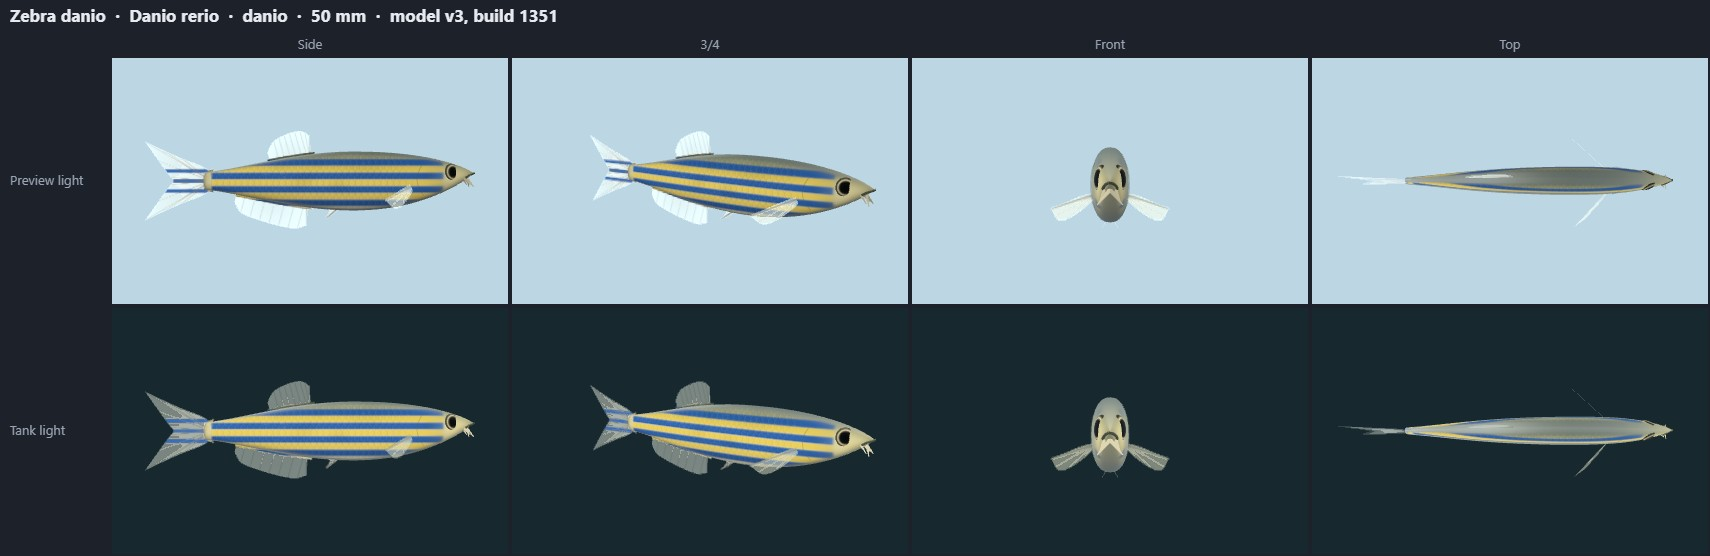
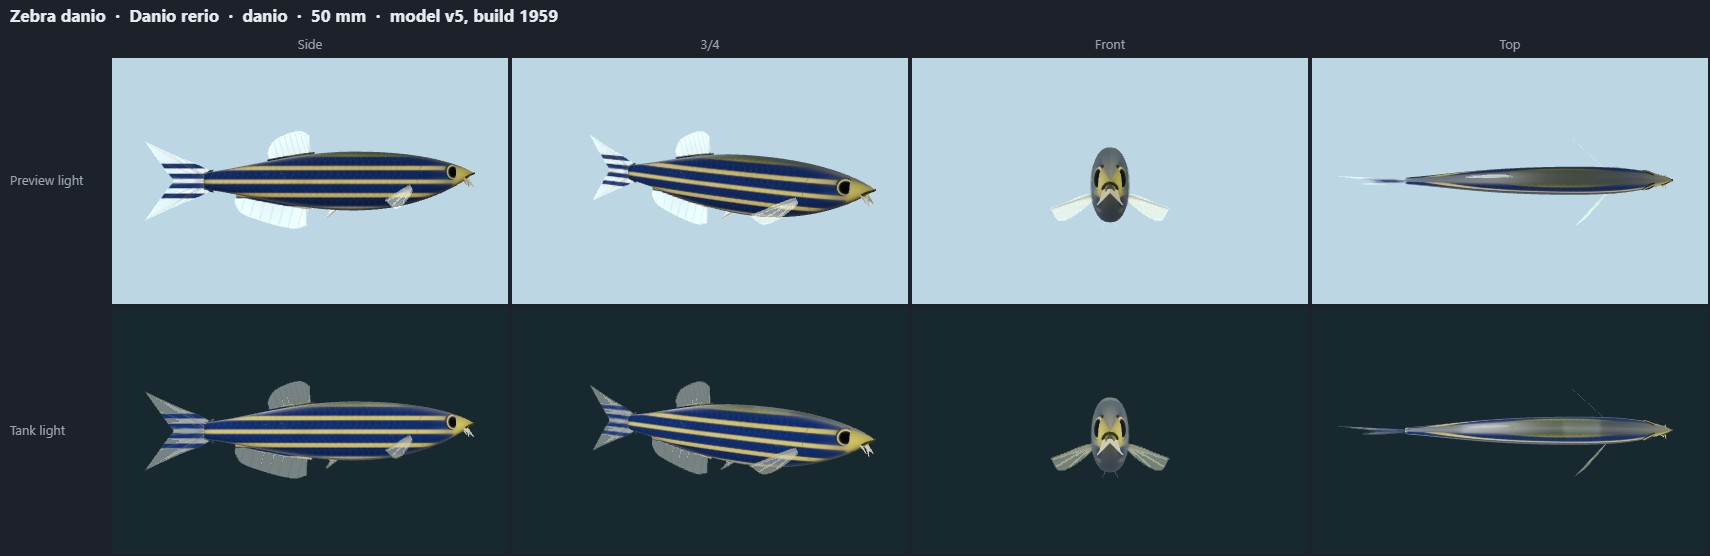
FA1: zebra danio bold blue-black stripes, silver-gold bands (R29)

diff --git a/public/model-sheets/index.html b/public/model-sheets/index.html
@@ -10,7 +10,7 @@ figure { margin: 8px 0 14px; padding: 8px; background: var(--panel); border-radi
 img { display: block; max-width: 100%; height: auto }
 </style></head><body>
 <h1>Model sheets</h1>
-<p>Pre-rendered review images of every TankLook animal model (no WebGL needed): 159 models, 108 species, written at build 1438.
+<p>Pre-rendered review images of every TankLook animal model (no WebGL needed): 161 models, 108 species, written at build 1959.
 Each sheet shows the Side, 3/4, Front, Top views; top row in the plain preview light, bottom row at true size in the default tank's LED light and water.
 Click a sheet for the full-size image (1710 × 556 px). Interactive version: <a href="../review.html">review.html</a>.</p>
 <h2>Freshwater fish</h2>
@@ -25,7 +25,7 @@ Click a sheet for the full-size image (1710 × 556 px). Interactive version: <a 
 <figure id="rummynose"><figcaption><b>Rummy-nose tetra</b> · <i>Hemigrammus rhodostomus</i> · rummynose · 50 mm · model v3 (build 434, 2026-10-15)</figcaption><a href="rummynose.jpg"><img src="rummynose.jpg" width="1710" height="556" loading="lazy" alt="Rummy-nose tetra (Hemigrammus rhodostomus), model v3: Side, 3/4, Front, Top views, preview light (top row) and tank light (bottom row)"></a></figure>
 <figure id="harlequin"><figcaption><b>Harlequin rasbora</b> · <i>Trigonostigma heteromorpha</i> · harlequin · 50 mm · model v3 (build 1351, 2026-10-27)</figcaption><a href="harlequin.jpg"><img src="harlequin.jpg" width="1710" height="556" loading="lazy" alt="Harlequin rasbora (Trigonostigma heteromorpha), model v3: Side, 3/4, Front, Top views, preview light (top row) and tank light (bottom row)"></a></figure>
 <figure id="chili"><figcaption><b>Chili rasbora</b> · <i>Boraras brigittae</i> · chili · 23 mm · model v4 (build 1351, 2026-10-27)</figcaption><a href="chili.jpg"><img src="chili.jpg" width="1710" height="556" loading="lazy" alt="Chili rasbora (Boraras brigittae), model v4: Side, 3/4, Front, Top views, preview light (top row) and tank light (bottom row)"></a></figure>
-<figure id="danio"><figcaption><b>Zebra danio</b> · <i>Danio rerio</i> · danio · 50 mm · model v3 (build 1351, 2026-10-27)</figcaption><a href="danio.jpg"><img src="danio.jpg" width="1710" height="556" loading="lazy" alt="Zebra danio (Danio rerio), model v3: Side, 3/4, Front, Top views, preview light (top row) and tank light (bottom row)"></a></figure>
+<figure id="danio"><figcaption><b>Zebra danio</b> · <i>Danio rerio</i> · danio · 50 mm · model v5 (build 1959, 2026-11-13)</figcaption><a href="danio.jpg"><img src="danio.jpg" width="1710" height="556" loading="lazy" alt="Zebra danio (Danio rerio), model v5: Side, 3/4, Front, Top views, preview light (top row) and tank light (bottom row)"></a></figure>
 <figure id="whitecloud"><figcaption><b>White cloud mountain minnow</b> · <i>Tanichthys albonubes</i> · whitecloud · 40 mm · model v2 (build 1351, 2026-10-27)</figcaption><a href="whitecloud.jpg"><img src="whitecloud.jpg" width="1710" height="556" loading="lazy" alt="White cloud mountain minnow (Tanichthys albonubes), model v2: Side, 3/4, Front, Top views, preview light (top row) and tank light (bottom row)"></a></figure>
 <figure id="cpd"><figcaption><b>Celestial pearl danio ♂</b> · <i>Danio margaritatus</i> · cpd · 25 mm · model v4 (build 1351, 2026-10-27)</figcaption><a href="cpd.jpg"><img src="cpd.jpg" width="1710" height="556" loading="lazy" alt="Celestial pearl danio ♂ (Danio margaritatus), model v4: Side, 3/4, Front, Top views, preview light (top row) and tank light (bottom row)"></a></figure>
 <figure id="cpd-f"><figcaption><b>Celestial pearl danio ♀</b> · <i>Danio margaritatus</i> · cpd~f · 25 mm · model v4 (build 1351, 2026-10-27)</figcaption><a href="cpd-f.jpg"><img src="cpd-f.jpg" width="1710" height="556" loading="lazy" alt="Celestial pearl danio ♀ (Danio margaritatus), model v4: Side, 3/4, Front, Top views, preview light (top row) and tank light (bottom row)"></a></figure>
@@ -153,6 +153,8 @@ Click a sheet for the full-size image (1710 × 556 px). Interactive version: <a 
 <figure id="indianstick"><figcaption><b>Indian stick insect</b> · <i>Carausius morosus</i> · indianstick · 80 mm · model v3 (build 1438, 2026-10-28)</figcaption><a href="indianstick.jpg"><img src="indianstick.jpg" width="1710" height="556" loading="lazy" alt="Indian stick insect (Carausius morosus), model v3: Side, 3/4, Front, Top views, preview light (top row) and tank light (bottom row)"></a></figure>
 <figure id="purplepincher"><figcaption><b>Purple pincher hermit crab</b> · <i>Coenobita clypeatus</i> · purplepincher · 75 mm · model v1 (build 1416, 2026-10-28)</figcaption><a href="purplepincher.jpg"><img src="purplepincher.jpg" width="1710" height="556" loading="lazy" alt="Purple pincher hermit crab (Coenobita clypeatus), model v1: Side, 3/4, Front, Top views, preview light (top row) and tank light (bottom row)"></a></figure>
 <h2>Tech gear</h2>
+<figure id="gear-hob-xs"><figcaption><b>HOB filter (nano) · 40 gph</b> · <i>tech gear</i> · gear-hob-xs · 1 mm · model v0 (build 0, unrecorded)</figcaption><a href="gear-hob-xs.jpg"><img src="gear-hob-xs.jpg" width="1710" height="556" loading="lazy" alt="HOB filter (nano) · 40 gph (tech gear), model v0: Side, 3/4, Front, Top views, preview light (top row) and tank light (bottom row)"></a></figure>
+<figure id="gear-internal-xs"><figcaption><b>Internal filter (nano) · 25 gph</b> · <i>tech gear</i> · gear-internal-xs · 1 mm · model v0 (build 0, unrecorded)</figcaption><a href="gear-internal-xs.jpg"><img src="gear-internal-xs.jpg" width="1710" height="556" loading="lazy" alt="Internal filter (nano) · 25 gph (tech gear), model v0: Side, 3/4, Front, Top views, preview light (top row) and tank light (bottom row)"></a></figure>
 <figure id="gear-sponge-s"><figcaption><b>Sponge filter (small) · 40 gph</b> · <i>tech gear</i> · gear-sponge-s · 1 mm · model v1 (build 793, 2026-10-19)</figcaption><a href="gear-sponge-s.jpg"><img src="gear-sponge-s.jpg" width="1710" height="556" loading="lazy" alt="Sponge filter (small) · 40 gph (tech gear), model v1: Side, 3/4, Front, Top views, preview light (top row) and tank light (bottom row)"></a></figure>
 <figure id="gear-internal-s"><figcaption><b>Internal filter (small) · 80 gph</b> · <i>tech gear</i> · gear-internal-s · 1 mm · model v1 (build 793, 2026-10-19)</figcaption><a href="gear-internal-s.jpg"><img src="gear-internal-s.jpg" width="1710" height="556" loading="lazy" alt="Internal filter (small) · 80 gph (tech gear), model v1: Side, 3/4, Front, Top views, preview light (top row) and tank light (bottom row)"></a></figure>
 <figure id="gear-hob-s"><figcaption><b>HOB filter (small) · 100 gph</b> · <i>tech gear</i> · gear-hob-s · 1 mm · model v1 (build 793, 2026-10-19)</figcaption><a href="gear-hob-s.jpg"><img src="gear-hob-s.jpg" width="1710" height="556" loading="lazy" alt="HOB filter (small) · 100 gph (tech gear), model v1: Side, 3/4, Front, Top views, preview light (top row) and tank light (bottom row)"></a></figure>

diff --git a/src/art/fishgen.ts b/src/art/fishgen.ts
@@ -537,11 +537,11 @@ export const PLANS: Record<string, Plan> = {
     dorsal: { at: 0.53, len: 0.06, h: 0.08, rake: 0.3, lead: 0.6, tip: 'point', trail: 0.045, drop: 0.2 }, anal: { at: 0.45, len: 0.1, h: 0.055, rake: 0.05, lead: 0.85, tip: 'point', trail: 0.03, drop: 0.35 }, pelvic: { u: 0.56, len: 0.05 },
     marks: [{ k: 'band', u0: 0.22, u1: 0.85, v0: -0.012, v1: 0.012, c: '#2a1a18', a: 0.7, f: 0.01 }, { k: 'blob', u: 0.24, v: 0, ru: 0.03, rv: 0.025, c: '#1a1212', a: 0.8 }],
     eye: { r: 0.03, iris: ['#d07050', '#4a1a12'] } },
-  danio: { shimmer: 0.5, shimmerRgb: '255,235,170', gillLine: 0.25, finFade: 0.3, gape: 0.032, gapeDrop: 0.012, barbels: 0.018, thick: 0.5, depth: 0.19, pedU: 0.18, ped: 0.032, peak: 0.55, snout: 0.4, mouth: -0.025, shade: ['#6e7462', '#cdc6a2', '#ece6cc'], tail: { type: 'fork', h: 0.12, a: 0.7 }, fin: N,
+  danio: { shimmer: 0.5, shimmerRgb: '255,235,170', gillLine: 0.25, finFade: 0.3, gape: 0.032, gapeDrop: 0.012, barbels: 0.018, thick: 0.5, depth: 0.19, pedU: 0.18, ped: 0.032, peak: 0.55, snout: 0.4, mouth: -0.025, shade: ['#5a5e3c', '#c2b57c', '#e4dfc4'], tail: { type: 'fork', h: 0.12, a: 0.7 }, fin: N,
     dorsal: { at: 0.5, len: 0.11, h: 0.07, rake: 0.3, lead: 0.7, drop: 0.5, trail: 0.02 }, anal: { at: 0.49, len: 0.2, h: 0.065, rake: 0.2, lead: 0.75, drop: 0.45, trail: 0.02 }, pelvic: { u: 0.58, len: 0.05 },
-    marks: [...[-0.035, 0.005, 0.045].map(v => ({ k: 'band' as const, u0: 0.2, u1: 0.9, v0: v - 0.011, v1: v + 0.011, c: '#e2c466', a: 0.55, f: 0.008 })), // gold between the stripes
-      ...[-0.055, -0.015, 0.025, 0.065].map(v => ({ k: 'band' as const, u0: 0.2, u1: 0.9, v0: v - 0.012, v1: v + 0.012, c: '#2b4f8c', a: 0.9, f: 0.008 }))],
-    finMarks: [-0.03, 0, 0.03].map(v => ({ k: 'band' as const, u0: 0.0, u1: 0.25, v0: v - 0.007, v1: v + 0.007, c: '#2b4f8c', a: 0.8, f: 0.004 })),
+    marks: [...[-0.038, 0.002, 0.042].map(v => ({ k: 'band' as const, u0: 0.2, u1: 0.9, v0: v - 0.012, v1: v + 0.012, c: '#cdbb80', a: 0.75, f: 0.006 })), // silver-gold between the stripes
+      ...[-0.058, -0.018, 0.022, 0.062].map(v => ({ k: 'band' as const, u0: 0.17, u1: 0.93, v0: v - 0.0155, v1: v + 0.0155, c: '#1a2a58', a: 0.97, f: 0.005 }))], // bold blue-black stripes, gill to tail base
+    finMarks: [-0.045, -0.015, 0.015, 0.045].map(v => ({ k: 'band' as const, u0: 0.0, u1: 0.3, v0: v - 0.009, v1: v + 0.009, c: '#1a2a58', a: 0.9, f: 0.004 })),
     eye: { r: 0.026, iris: ['#c9c2a6', '#4e4a3c'] } },
   cherrybarb: { gape: 0.025, gapeDrop: 0.006, thick: 0.4, depth: 0.26, pedU: 0.2, ped: 0.04, peak: 0.6, snout: 0.5, shade: ['#8a3a2a', '#c4473a', '#d97a62'], tail: { type: 'fork', h: 0.15, tint: '#c25a48' }, fin: '#c96b58',
     dorsal: { at: 0.61, len: 0.12, h: 0.12, rake: 0.2, lead: 0.6, tip: 'point', trail: 0.05, drop: 0.25 }, anal: { at: 0.44, len: 0.11, h: 0.075, rake: 0.2, lead: 0.7, tip: 'point', trail: 0.035, drop: 0.3 }, pelvic: { u: 0.58, len: 0.07, w: 1.2 },

diff --git a/HANDOFF.md b/HANDOFF.md
@@ -973,3 +973,10 @@ Research only, no app code changed. Deliverable `research/design/ui1-inventory.m
 - Kit records each cabinet hose route in `kit.hoseRoutes` (also on the room mesh's `userData.hoseRoutes`) for the test. `test/cb2cutout.test.ts`: every hose point below the cabinet top rail is inside the cabinet or inside the cut-out; open frame stand and no stand: no cut-out.
 - Not changed: the CO2 line's own small grommet (150 mm lower, `render/gear/co2.ts`), open stands, tables, a canister standing beside the stand. No cords from other cabinet gear are drawn today, so none use the opening.
 - Shots (real app, wall hidden): `research/screens/CB2/` (`behind-cabinet-after*.png`, `front-34-cabinet.png`, `behind-open-stand.png`); `scripts/cb2-shots.mjs`. Before: `research/screens/R8-before-behind.png`.
+## FA1: zebra danio colours (lane FA1, 2026-11-13, request R29)
+- Cause: the recipe only (`src/art/fishgen.ts` `danio`): stripes were 0.024 of body length wide on a cream base, so downsampled in the tank they read as faint lines. No shared shader / light setting involved; no other fish changed.
+- Fix: stripes 0.031 wide, blue-black `#1a2a58` at 0.97 alpha, from gill (u 0.17) to tail base; silvery-gold bands `#cdbb80`; olive-brown back / silvery-gold flank / pale belly shade; tail stripes four wide and dark. Body shape unchanged. Model v5, build 1959 (`model-versions.json`, `public/model-sheets/danio.jpg` regenerated).
+- Real fish reference: Danio rerio has 4-5 sharp dark blue horizontal stripes from gill into the tail, silver-gold between (Wikipedia / Seriously Fish descriptions; I did not open photos, written from the known pattern).
+- Proof: `research/screens/FA1/` before-/after- {default,dim,strong}-{normal,close}.png, `*-crop-dim-default-strong.png`, `after-model-sheet.jpg`. (`close` shots frame like `normal`; the crops are the zoom.) Script `scripts/fa1-shots.mjs`.
+- NOT done: `public/gallery/danio.webp` (bake is a manual all-animal console run; the gallery stays on the old still until someone bakes). Anal fin still pale, no stripes (recipe has no anal finMarks hook that I checked).
+- Other patterned fish (cpd, rasboras) not inspected closely; none changed.
